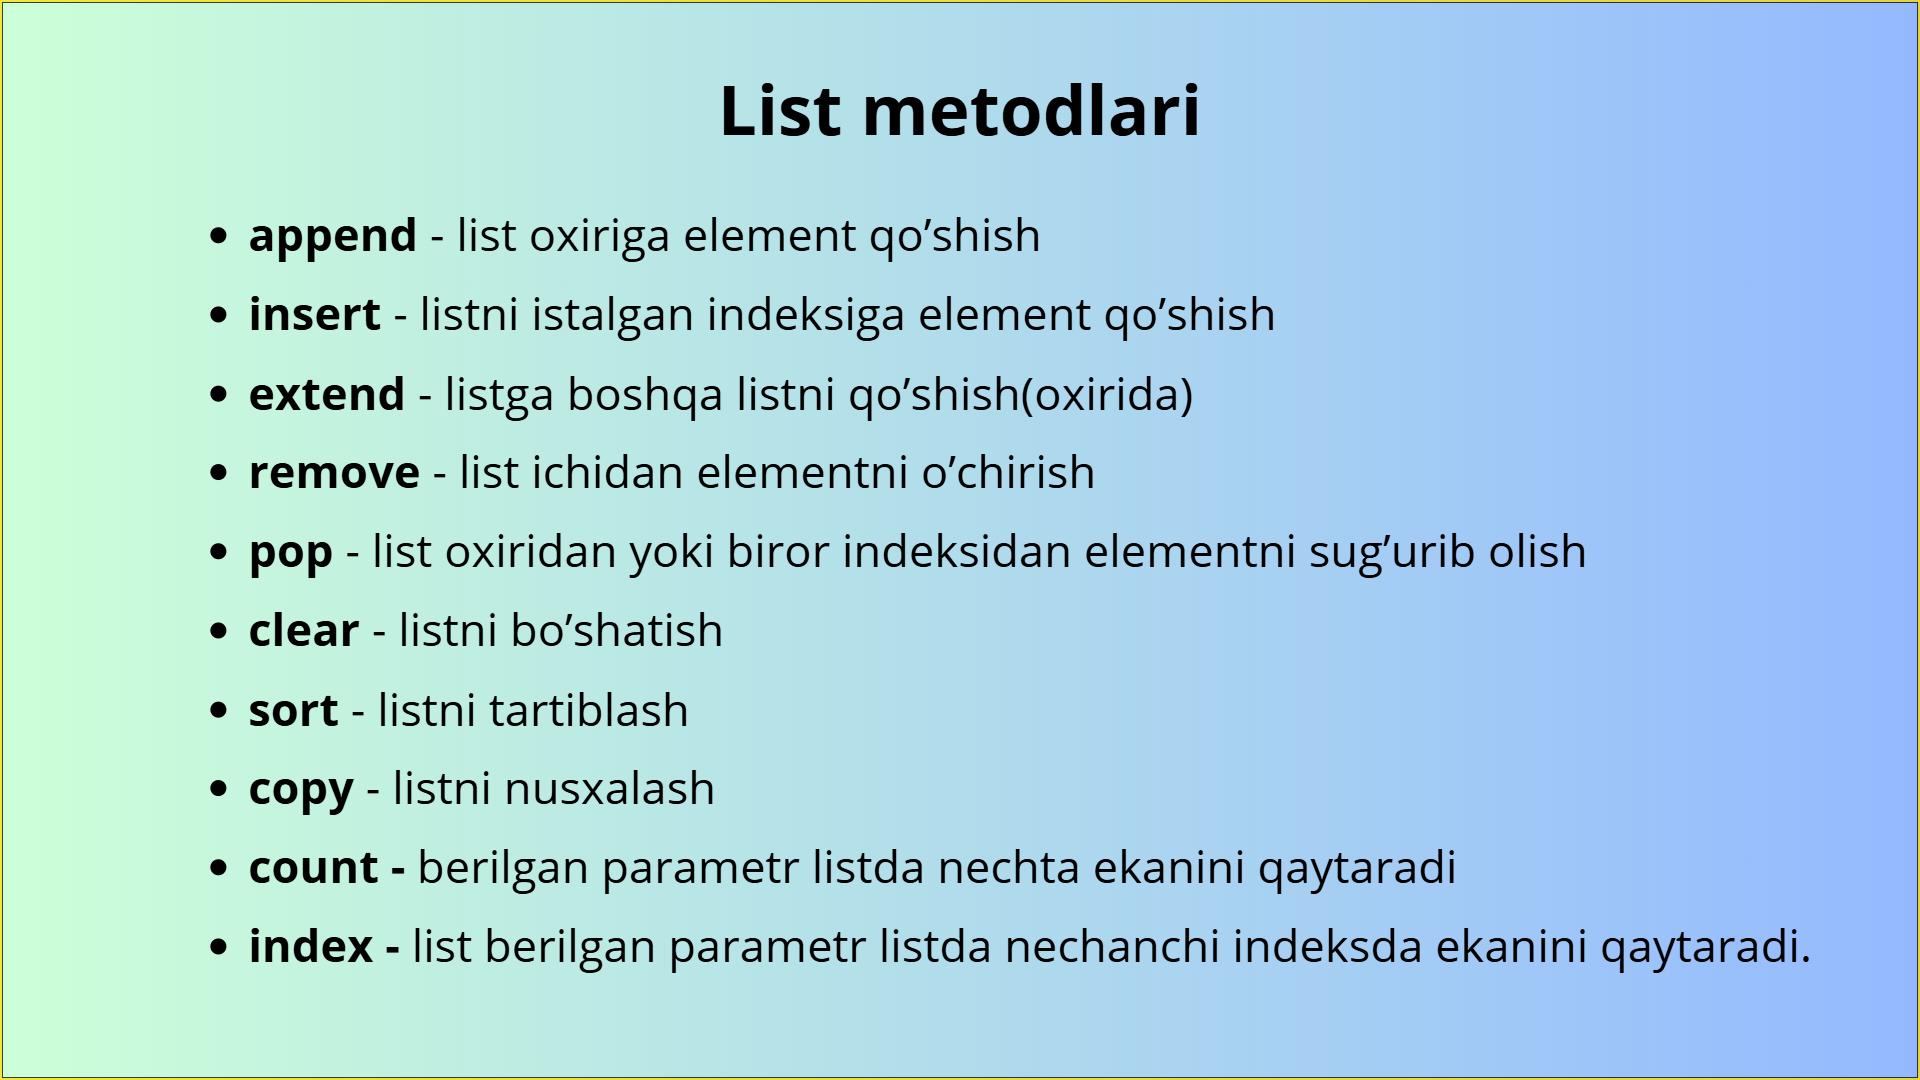
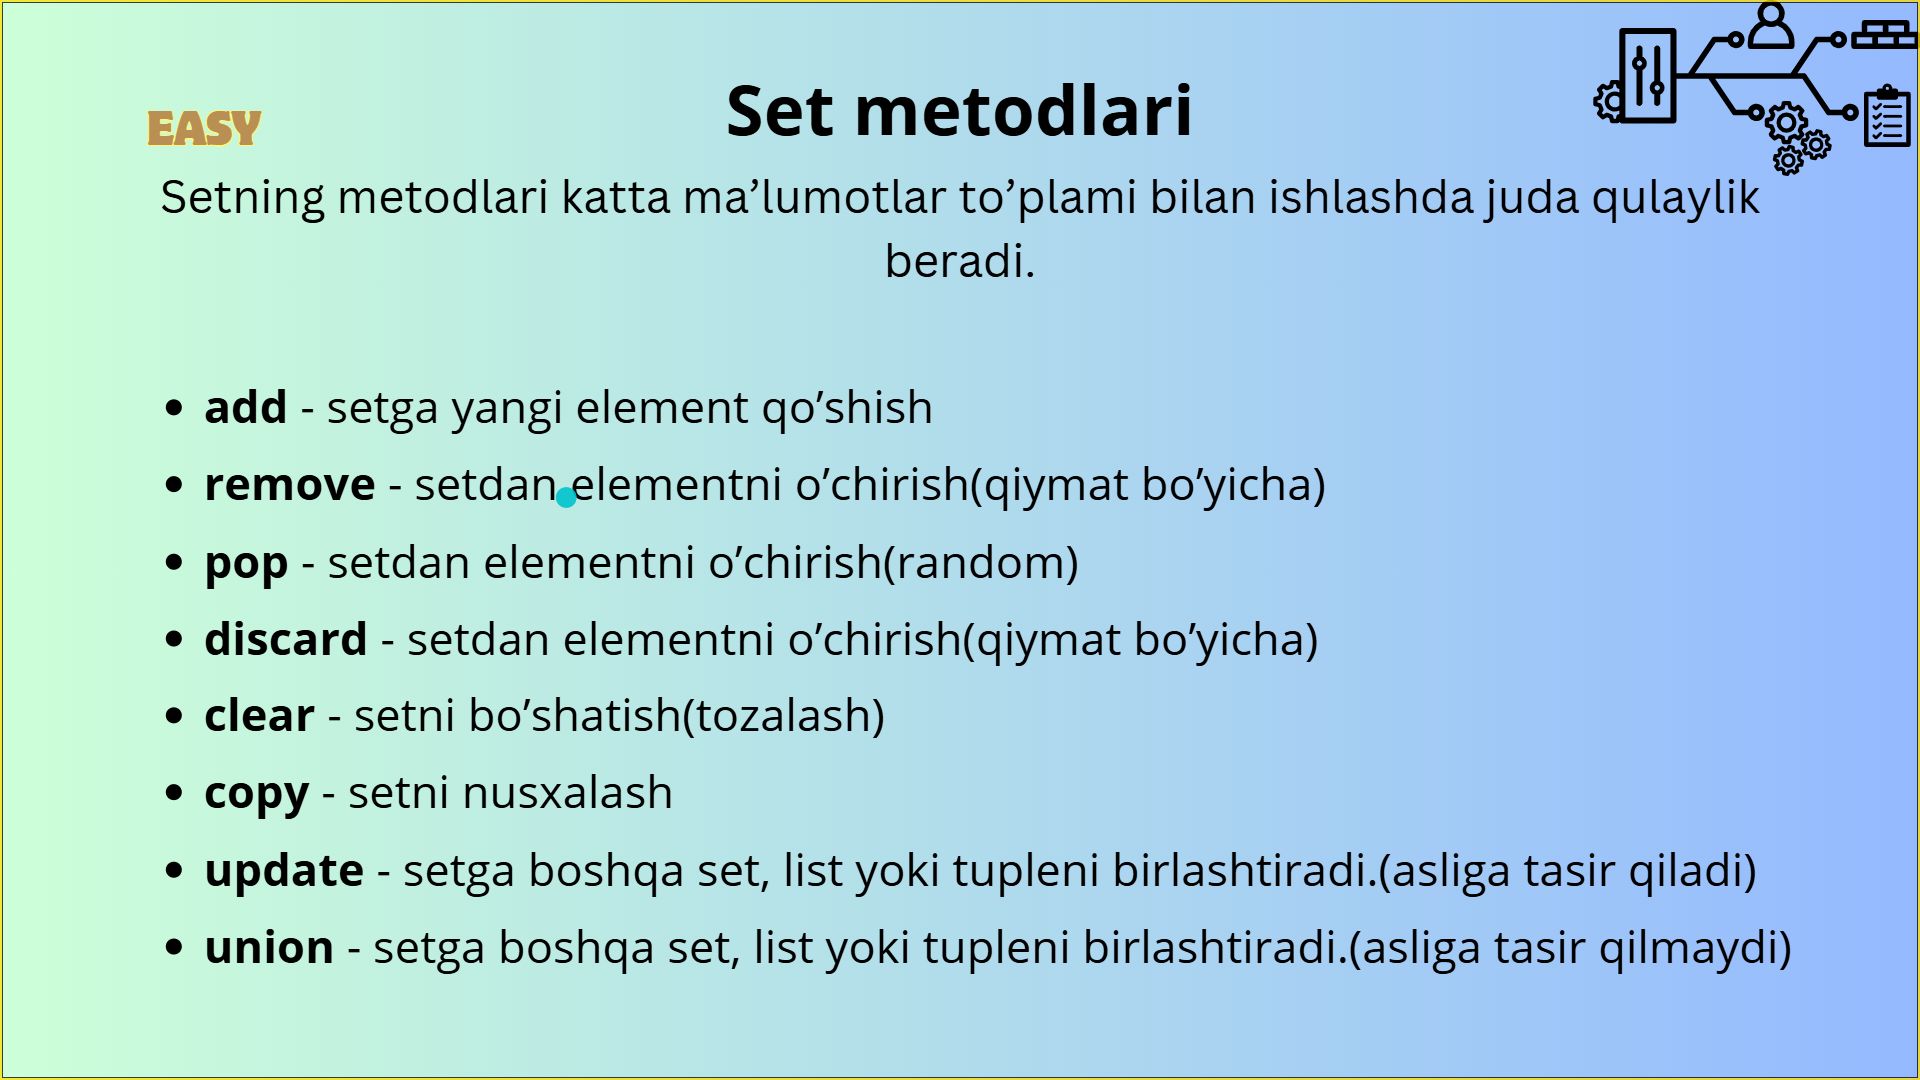
Set metodlari 1

diff --git a/main.py b/main.py
@@ -1,33 +1,27 @@
 import os
 os.system("cls")
 
-ismlar = ['Ibrohim', "Begzod", "Abdulhamid"]
+set1 = {"Salom","Hello", "Good", "Nice"}
+# set1.add("wonderfull")
+# set1.add("Morning")
 
-ismlar.append("Nurmuhammad")
-# print(ismlar)
+# set1.remove("Hello")
 
-ismlar.insert(1, "Muhammadsobir")
-# print(ismlar)
+# s = set1.pop()
+# print(s)
 
-ismlar2 = ["Asalxon", "Pariza"]
-ismlar.extend(ismlar2)
-# print(ismlar)
+# set1.discard("Hi")
 
-ismlar.remove("Ibrohim")
-# print(ismlar)
+# set1.clear()
 
-# ism = ismlar.pop(3)
-# print(ismlar)
-# print(ism)
+# set2 = set1.copy()
+# print(set2)
 
-# ismlar.clear()
-# print(ismlar)
+set2 = {1,2,3,4,5, "Hello", "Good"}
+# set1.update(set2)
 
-# print(ismlar)
-# ismlar.sort(reverse=True)
-# print(ismlar)
+set3 = set1.union(set2)
+print(set3)
 
-ismlar3 = ismlar.copy()
-ismlar3.append("Ibrohim")
-print(ismlar3)
-print(ismlar)
+print(set1)
+